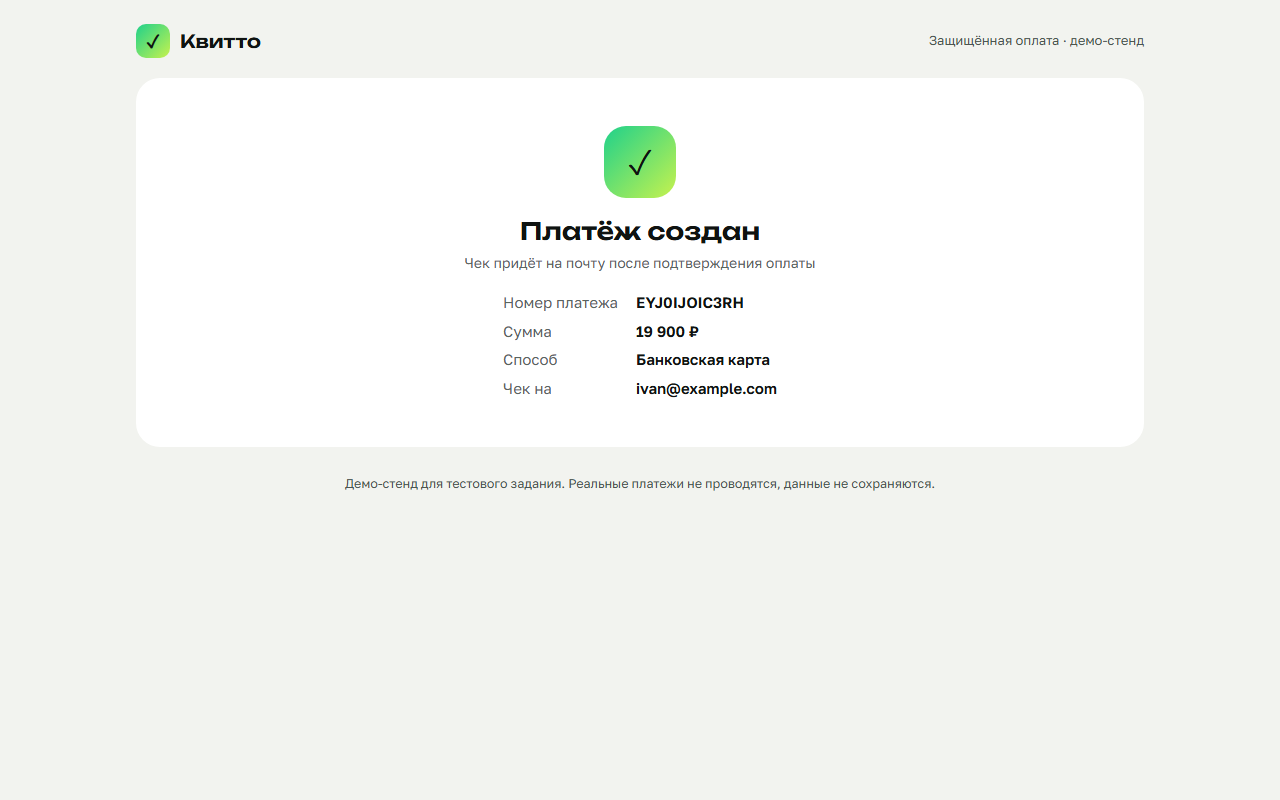
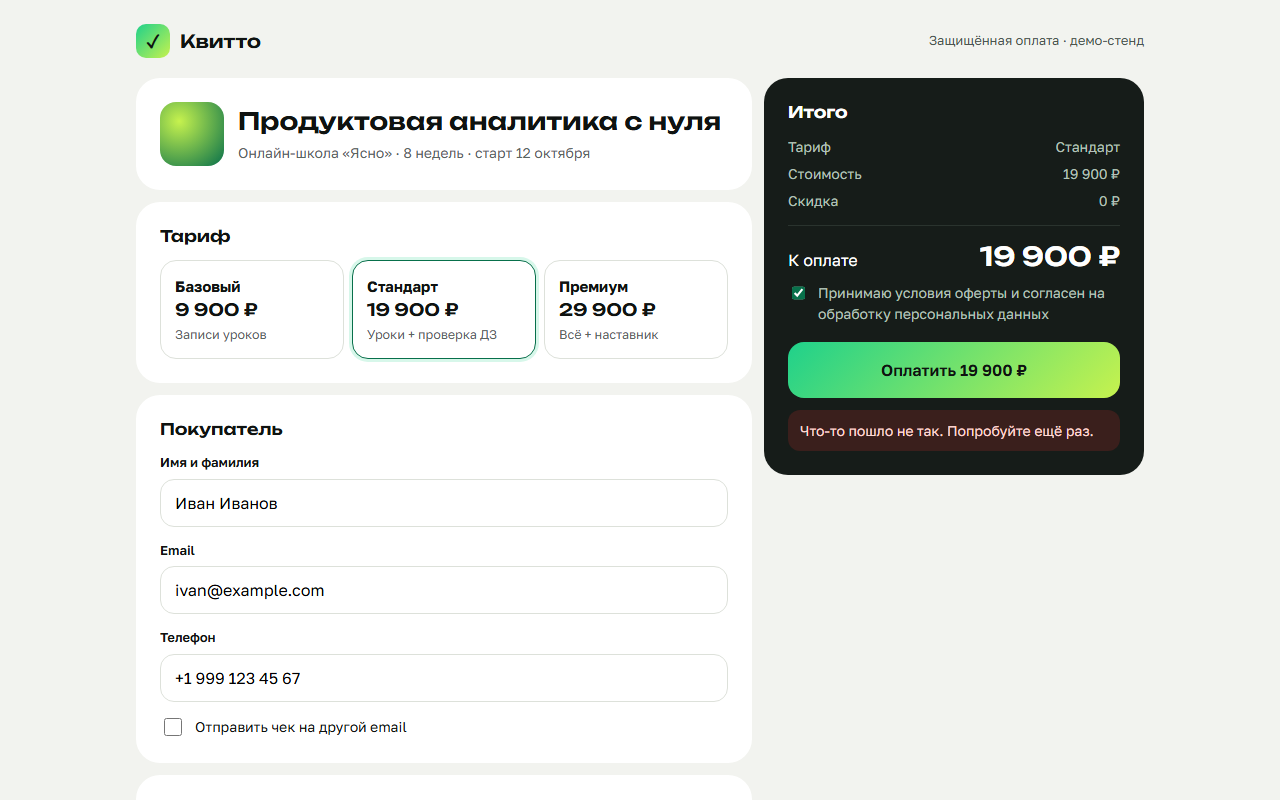
fix(qa): replace phantom BUG-10 with real 422 server validation bug, fix TC-05 boundary fixtures, wire dynamic Postman variables and isolate top 3 PM issues

diff --git a/bonus/autotests/test_api.py b/bonus/autotests/test_api.py
@@ -52,7 +52,7 @@ class TestKvittoAPI:
             "promo_code": "KVITTO10"
         }
         resp = requests.post(f"{BASE_URL}/payments", json=payload, timeout=10)
-        assert resp.status_code in (200, 201)
+        assert resp.status_code == 201, f"BUG-13: Expected 201 Created, got {resp.status_code}"
         data = resp.json()
         expected_amount = 17910  # 19900 - 10% = 17910
         assert data.get("amount") == expected_amount, (

diff --git a/test_cases.md b/test_cases.md
@@ -6,9 +6,9 @@
 | TC-02 | Применение валидного промокода в нижнем регистре «kvitto10» | Выбран тариф «Стандарт» (19 900 ₽). Поле промокода пустое. | 1. Ввести в поле «Промокод» значение «kvitto10» в нижнем регистре<br>2. Нажать кнопку «Применить» | Промокод успешно применяется (регистр не важен). Появляется сообщение «Промокод применён: −10%». В блоке «Итого» отображается скидка −1 990 ₽, итоговая сумма к оплате и сумма на кнопке: 17 910 ₽. | <span style='color:red'>**Failed**</span> | BUG-03 |
 | TC-03 | Расчёт ежемесячного платежа рассрочки на 6 месяцев без переплаты | Выбран тариф «Стандарт» (19 900 ₽), скидка 0 ₽. | 1. В блоке «Способ оплаты» выбрать «Рассрочка 0%»<br>2. В блоке срока нажать кнопку «6 мес.» | Отображается подсказка с расчётом ежемесячного платежа: 19 900 / 6 = 3 316.67 ₽, с округлением вверх: 3 317 ₽. Текст: «Платёж 3 317 ₽ в месяц · без переплаты». | <span style='color:red'>**Failed**</span> | BUG-02 |
 | TC-04 | Ввод двойной фамилии через дефис в поле «Имя и фамилия» | Форма оплаты открыта. Поле «Имя и фамилия» пустое. | 1. Ввести в поле «Имя и фамилия»: «Анна-Мария Смирнова-Петрова»<br>2. Заполнить валидные Email, Телефон, установить оферту<br>3. Нажать «Оплатить» | Дефис допустим по требованиям ТЗ (кириллица, латиница, пробел, дефис). Валидация проходит успешно, сообщение об ошибке отсутствует, запрос отправляется на сервер. | <span style='color:red'>**Failed**</span> | BUG-05 |
-| TC-05 | Граничные значения длины поля «Имя и фамилия» (2, 99, 100 и 101 символ) | Форма оплаты открыта. | 1. Нижняя граница: ввести 2 символа («Ян Ли»)<br>2. Околопредельная верхняя: ввести 99 символов<br>3. Точная верхняя граница: ввести ровно 100 символов<br>4. Выход за границу: ввести 101 символ | Значения длиной 2, 99 и 100 символов валидны (ошибки нет, форма активна). При вводе 101-го символа срабатывает ограничение maxlength=100, либо при программной вставке форма выдаёт ошибку валидации. | **Passed** | — |
+| TC-05 | Граничные значения длины поля «Имя и фамилия» (2, 99, 100 и 101 символ) | Форма оплаты открыта. | 1. Нижняя граница: ввести ровно 2 символа: «Ян» -> проверить валидацию<br>2. Околопредельная: ввести строку 99 символов («Александр-» + 88 букв «а» + «в»)<br>3. Точная верхняя граница: ввести строку 100 символов («Александр-» + 89 букв «а» + «в»)<br>4. Выход за границу: ввести строку 101 символ («Александр-» + 90 букв «а» + «в») | Значения длиной 2, 99 и 100 символов валидны (форма активна, ошибки нет). При попытке ввода 101-го символа срабатывает ограничение maxlength=100 или ошибка валидации. | **Passed** | — |
 | TC-06 | Отображение ошибки при вводе некорректного Email (без доменной зоны) | Форма оплаты открыта. | 1. Ввести в поле «Email»: «user@domain» (без точки и доменной зоны)<br>2. Заполнить имя и телефон<br>3. Нажать «Оплатить» | Форма не отправляется. Сообщение об ошибке формата email строго выводится под полем «Email» («err-email»). Поле подсвечивается красной рамкой. | <span style='color:red'>**Failed**</span> | BUG-04 |
 | TC-07 | Переключение со способа «Рассрочка 0%» на «Банковская карта» | Форма оплаты открыта, выбран способ «Рассрочка 0%», блок срока виден. | 1. В блоке способов оплаты нажать «Банковская карта»<br>2. Проверить видимость блока срока рассрочки<br>3. Заполнить форму и отправить запрос на оплату картой | Блок выбора срока рассрочки полностью скрывается (виден только при выбранной рассрочке). В теле запроса к API параметр installment_months отсутствует. | <span style='color:red'>**Failed**</span> | BUG-01 |
 | TC-08 | Соответствие цены выбранного тарифа «Премиум» в «Итого» и на кнопке | Форма оплаты открыта. | 1. Нажать на карточку тарифа «Премиум» (в карточке указано: 29 900 ₽)<br>2. Проверить сумму в строке «Стоимость» блока «Итого»<br>3. Проверить сумму в строке «К оплате» и надпись на кнопке | Сумма в блоке «Итого» и на кнопке оплаты строго совпадает с ценой выбранного тарифа из раздела 2 ТЗ (29 900 ₽). На кнопке: «Оплатить 29 900 ₽». | <span style='color:red'>**Failed**</span> | BUG-08 |
 | TC-09 | Однократность промокода и пересчёт скидки при смене тарифа | Выбран тариф «Стандарт» (19 900 ₽). Применён промокод «KVITTO10» (скидка 1 990 ₽). | 1. Повторно нажать кнопку «Применить» рядом с промокодом<br>2. Переключить тариф на «Базовый» (9 900 ₽)<br>3. Проверить размер скидки и сумму к оплате | Промокод применяется только 1 раз (скидка не удваивается). При смене тарифа на «Базовый» скидка пересчитывается: 10% от 9 900 ₽ = 990 ₽. Итого к оплате: 8 910 ₽. | <span style='color:red'>**Failed**</span> | BUG-09 |
-| TC-10 | Отправка чека на альтернативный email (receipt_email) | Форма оплаты открыта. | 1. Заполнить основной Email: «main@example.com»<br>2. Установить чекбокс «Отправить чек на другой email»<br>3. В появившееся поле ввести «other@company.ru»<br>4. Заполнить остальные обязательные поля и нажать «Оплатить» | В запросе к API передается receipt_email: 'other@company.ru'. Сервер сохраняет данный адрес. На экране успеха в поле «Чек на» отображается «other@company.ru». | <span style='color:red'>**Failed**</span> | BUG-10, BUG-15 |
+| TC-10 | Отображение серверных ошибок валидации при неверном коде страны в телефоне | Форма оплаты открыта. | 1. Заполнить «Имя и фамилия»: «Иван Иванов»<br>2. Заполнить «Email»: «ivan@example.com»<br>3. В поле «Телефон» ввести номер с кодом США: «+1 999 123-45-67» (проходит клиентскую проверку длины)<br>4. Установить чекбокс оферты и нажать «Оплатить» | Бэкенд возвращает статус 422 { error: 'validation_error', fields: { phone: '...' } }. Текст ошибки сервера отображается строго под полем «Телефон» («err-phone») по п. 2 ТЗ. | <span style='color:red'>**Failed**</span> | BUG-10 |

diff --git a/summary_pm.md b/summary_pm.md
@@ -3,6 +3,6 @@
 **Релизный вердикт:** Выпускать релиз в текущем виде **нельзя (категорически блокируется)**.
 
 **Топ-3 критические проблемы для первоочередного исправления:**
-1. **BUG-08, BUG-09, BUG-14 (Ошибки в деньгах и скидках):** Списание на 3 000 ₽ больше заявленного на «Премиуме», обнуление цены до 0 ₽ при кликах по промокоду и игнорирование скидки бэкендом — прямой кассовый разрыв, скандалы с клиентами и риски судебных исков по ЗоЗПП.
-2. **BUG-10, BUG-15 (Нарушение отправки чеков по 54-ФЗ):** Потеря поля `receipt_email` и перезапись его основным email — риск недоставки электронного чека покупателю и оборотных штрафов от ФНС по ст. 14.5 КоАП РФ.
-3. **BUG-06, BUG-07 (Оплата без оферты и дублирование списаний):** Проведение платежа без согласия с офертой и политикой ПДн (штрафы Роскомнадзора), а также отсутствие блокировки кнопки «Оплатить», генерирующее повторные списания, чарджбэки и банковские комиссии.
+1. **BUG-08 (Несоответствие цены тарифа «Премиум»):** В карточке тарифа указана цена 29 900 ₽, а к списанию выставляется 32 900 ₽ (+3 000 ₽) — прямой обман покупателя, нарушение ст. 10, 12 ЗоЗПП и риск судебных претензий.
+2. **BUG-09 (Суммирование скидки по промокоду):** При каждом нажатии кнопки «Применить» скидка суммируется неограниченно, позволяя снизить цену любого курса до 0 ₽ — прямой кассовый разрыв и потеря выручки компании.
+3. **BUG-07 (Отсутствие блокировки кнопки «Оплатить»):** Кнопка остаётся активной на время выполнения сетевого запроса, повторные клики отправляют параллельные транзакции, создавая задвоенные списания, чарджбэки и комиссии банков.

diff --git a/README.md b/README.md
@@ -68,9 +68,9 @@ npx newman run postman/Kvitto_API.postman_collection.json -e postman/Kvitto_Env.
 > **Релизный вердикт:** Выпускать релиз в текущем виде **нельзя (категорически блокируется)**.
 >
 > **Топ-3 проблемы для первоочередного исправления:**
-> 1. **BUG-08, BUG-09, BUG-14 (Ошибки в деньгах и скидках):** Списание на 3 000 ₽ больше заявленного на «Премиуме», обнуление цены до 0 ₽ при кликах по промокоду и игнорирование скидки бэкендом — прямой кассовый разрыв, скандалы с клиентами и риски судебных исков по ЗоЗПП.
-> 2. **BUG-10, BUG-15 (Нарушение отправки чеков по 54-ФЗ):** Потеря поля `receipt_email` и перезапись его основным email — риск недоставки электронного чека покупателю и оборотных штрафов от ФНС по ст. 14.5 КоАП РФ.
-> 3. **BUG-06, BUG-07 (Оплата без оферты и дублирование списаний):** Проведение платежа без согласия с офертой и политикой ПДн (штрафы Роскомнадзора), а также отсутствие блокировки кнопки «Оплатить», генерирующее повторные списания, чарджбэки и банковские комиссии.
+> 1. **BUG-08 (Несоответствие цены тарифа «Премиум»):** В карточке тарифа указано 29 900 ₽, а к списанию выставляется 32 900 ₽ — нарушение ЗоЗПП и риск судебных претензий.
+> 2. **BUG-09 (Суммирование скидки по промокоду):** При повторных кликах скидка суммируется неограниченно (до 0 ₽) — кассовый разрыв и потеря выручки бизнеса.
+> 3. **BUG-07 (Отсутствие блокировки кнопки «Оплатить»):** Кнопка не блокируется при отправке, создавая параллельные транзакции, повторные списания и чарджбэки.
 
 ---
 
